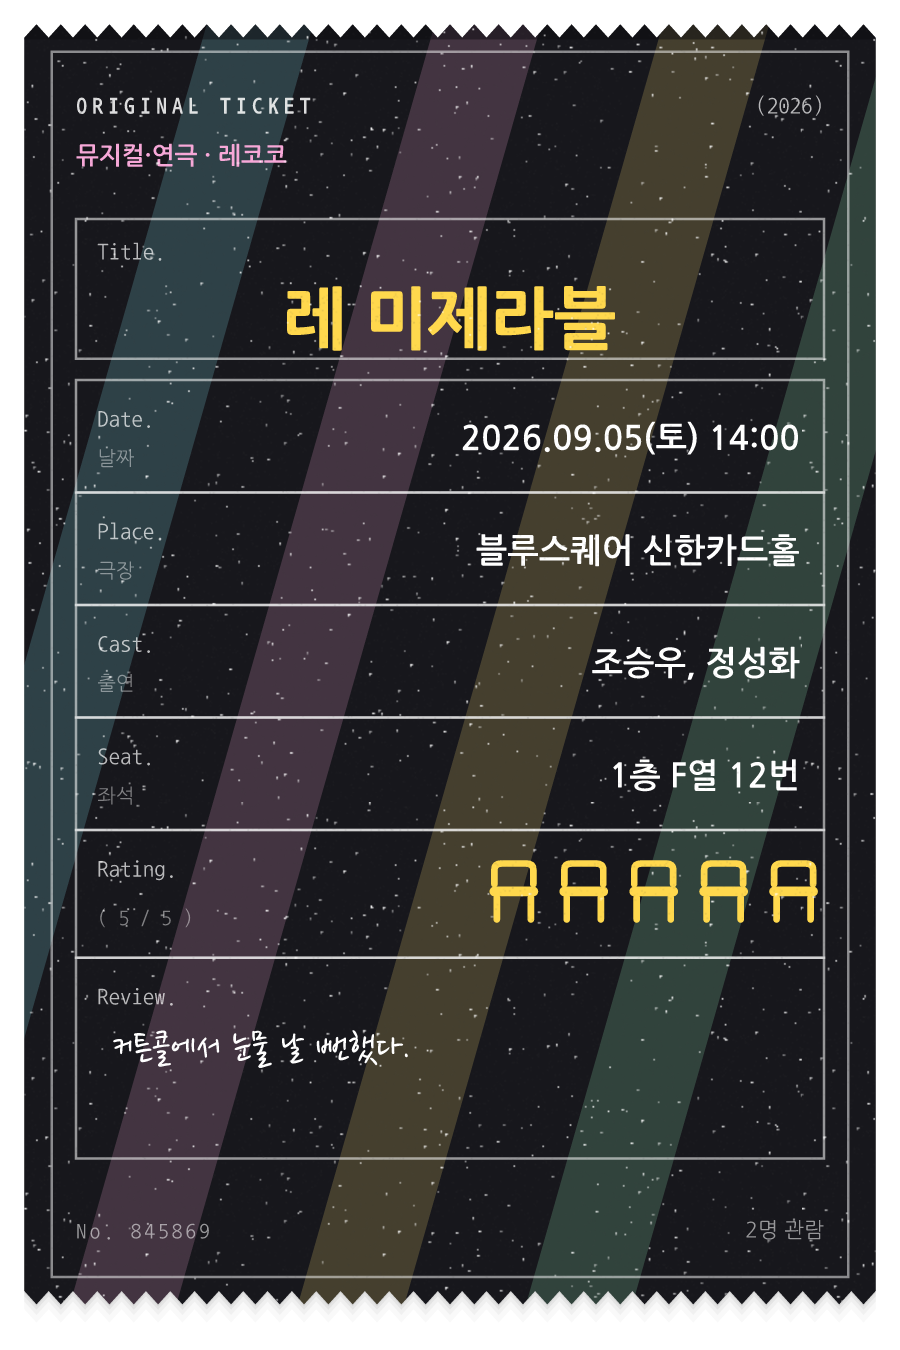
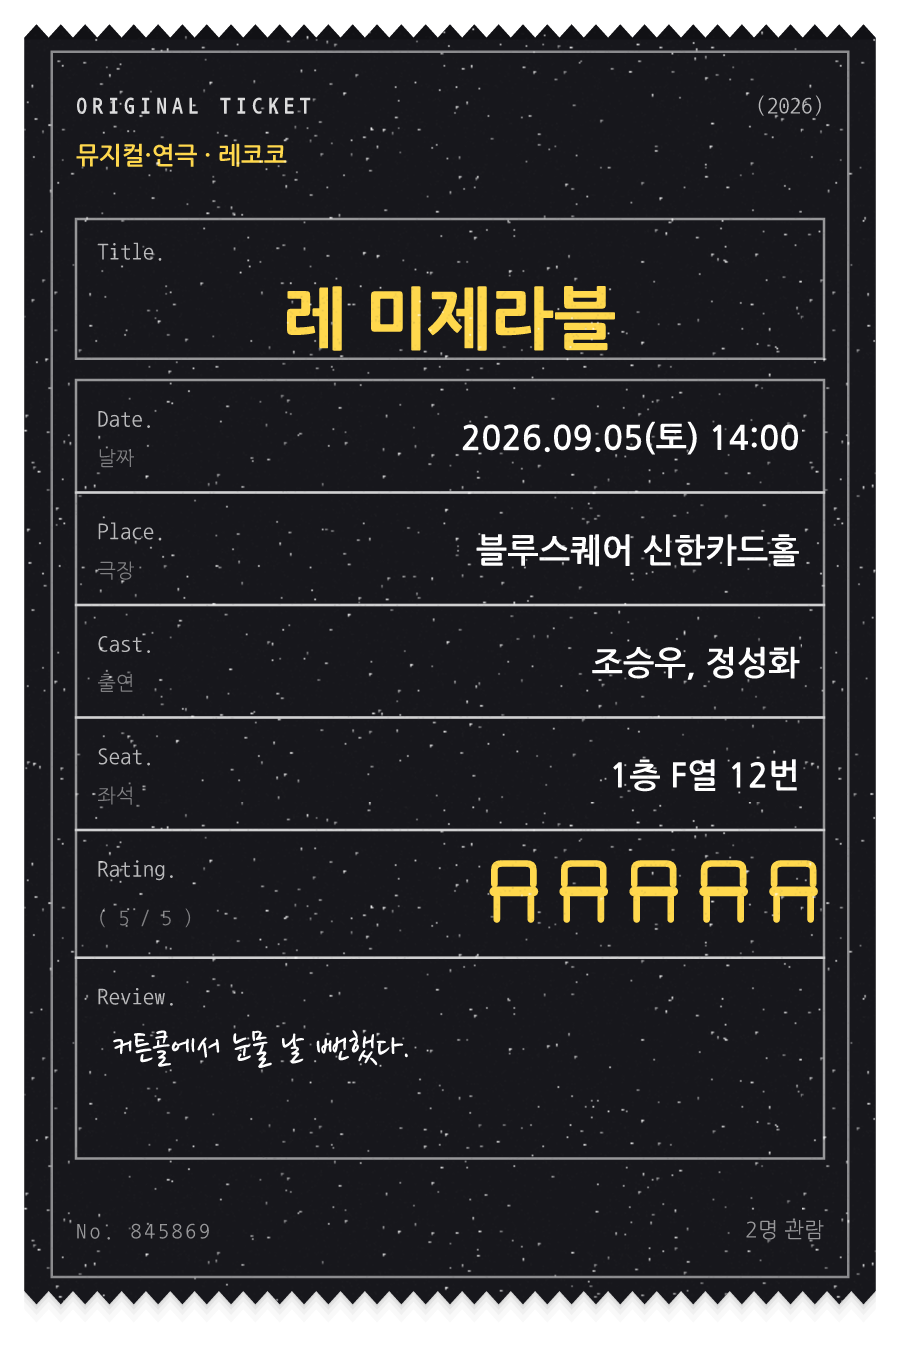
검정 홀로그램은 띠 없이 · 미리보기에서 쌓은 칸 높이를 옆 칸에 맞추기
- 검정 홀로그램의 무지개 띠 제거 (깜깜한 종이 그대로), 머리 글씨는 금색으로
- 미리보기: 칸마다 크기를 먼저 재고, 쌓은 칸은 남는 자리를 장 사이에 나눠 넣어 높이를 맞춘다

diff --git a/app/src/components/ProductPreview.tsx b/app/src/components/ProductPreview.tsx
@@ -41,6 +41,16 @@ export function ProductPreview({ product, onClose, onBought }: { product: Previe
   // 한 장은 크게, 여러 장이면 옆으로 넘겨 보기
   const many = (product?.samples.length ?? 0) > 1;
   const maxH = screenH * 0.5;
+  // 칸마다 종이 폭·높이를 먼저 재서, 가장 높은 칸에 나머지를 맞춘다
+  const cellW = many ? screenW * 0.62 : screenW - 60;
+  const sized = (product?.samples ?? []).map((sample) => {
+    const l = layoutOf(sample.record);
+    const stack = [sample.record, ...(sample.more ?? [])];
+    const room = (maxH - (stack.length - 1) * 10) / stack.length;
+    const w = Math.min(cellW, (room * l.width) / l.height);
+    return { sample, stack, w, h: (w * l.height) / l.width };
+  });
+  const rowH = sized.reduce((m, s) => Math.max(m, s.h * s.stack.length), 0);
 
   return (
     <Modal visible={!!product} animationType="slide" presentationStyle="pageSheet" onRequestClose={onClose}>
@@ -61,17 +71,14 @@ export function ProductPreview({ product, onClose, onBought }: { product: Previe
             <Text style={styles.desc}>{product.desc}</Text>
 
             <ScrollView horizontal showsHorizontalScrollIndicator={false} contentContainerStyle={styles.samples}>
-              {product.samples.map((s, i) => {
-                const l = layoutOf(s.record);
-                const stack = [s.record, ...(s.more ?? [])];
-                // 화면 높이의 절반 안에 들어오게 폭을 정한다 (여러 장을 쌓으면 그만큼 나눠 쓴다)
-                const room = (maxH - (stack.length - 1) * 10) / stack.length;
-                const w = Math.min(many ? screenW * 0.62 : screenW - 60, (room * l.width) / l.height);
+              {sized.map(({ sample: s, stack, w, h }, i) => {
+                // 쌓은 칸은 옆 칸만큼 키운다 (남는 자리를 장 사이에 나눠 넣는다)
+                const gap = stack.length > 1 ? Math.max(10, (rowH - h * stack.length) / (stack.length - 1)) : 0;
                 return (
                   <View key={i} style={styles.sample}>
                     <View style={styles.paper}>
                       {stack.map((record, j) => (
-                        <View key={j} style={j > 0 && { marginTop: 10 }}>
+                        <View key={j} style={j > 0 && { marginTop: gap }}>
                           {s.side === 'back' && record.kind === 'fourcut' ? <FourcutBack record={record} width={w} /> : <RecordPaper record={record} width={w} />}
                         </View>
                       ))}

diff --git a/app/src/templates/ShowHolo.tsx b/app/src/templates/ShowHolo.tsx
@@ -18,7 +18,8 @@ export const HOLO_COLORS: Record<HoloColor, { name: string; base: string; deep: 
   violet: { name: '보라', base: '#4b2a9b', deep: '#331a70', gold: '#ffd84d', holo: ['#c9a8f7', '#ffe27a', '#f7a8d8', '#a8f0f7'], shine: 0.09 },
   teal: { name: '청록', base: '#0e6b6b', deep: '#074f4f', gold: '#ffe08a', holo: ['#8be9f7', '#ffe27a', '#9bf5c0', '#a8d8f7'], shine: 0.09 },
   wine: { name: '와인', base: '#7a1f45', deep: '#571030', gold: '#ffd07a', holo: ['#f7a8d8', '#ffe27a', '#f7c8a8', '#e9a8f7'], shine: 0.09 },
-  black: { name: '검정', base: '#17171c', deep: '#0b0b0e', gold: '#ffd84d', holo: ['#8be9f7', '#f7a8d8', '#ffe27a', '#9bf5c0'], shine: 0.2 },
+  // 검정은 띠 없이 깜깜한 종이 그대로 (shine 0)
+  black: { name: '검정', base: '#17171c', deep: '#0b0b0e', gold: '#ffd84d', holo: [], shine: 0 },
 };
 
 export const HOLO_COLOR_IDS = Object.keys(HOLO_COLORS) as HoloColor[];
@@ -126,7 +127,7 @@ export function ShowHolo({ record: r, width, connected = false }: { record: Show
         {/* 머리 */}
         <T f="monoBold" x={M} y={58} fontSize={15} letterSpacing={3} fill="#fff" opacity={0.85} children="ORIGINAL TICKET" />
         <T f="mono" x={PW - M} y={58} fontSize={15} textAnchor="end" fill="#fff" opacity={0.7} children={`(${year})`} />
-        <T f="sansBold" x={M} y={92} fontSize={16} fill={HOLO[1]} children={`${t.label} · ${BRAND.ko}`} />
+        <T f="sansBold" x={M} y={92} fontSize={16} fill={HOLO[1] ?? GOLD} children={`${t.label} · ${BRAND.ko}`} />
 
         {/* 제목 칸 */}
         {box(M, titleTop, PW - M * 2, titleBoxH, 'title')}

diff --git a/docs/유료화_아이디어.md b/docs/유료화_아이디어.md
@@ -41,11 +41,11 @@
 | 모눈종이 | 연두 · 하늘 · 분홍 · 회색 |
 | 스탠딩 팔찌 | 라임 · 핫핑크 · 하늘 · 주황 |
 | 포토 티켓 | 분홍 · 하늘 · 버터 · 민트 |
-| 홀로그램 | 파랑 · 보라 · 청록 · 와인 · 검정 (검정은 무지개 띠를 더 진하게) |
+| 홀로그램 | 파랑 · 보라 · 청록 · 와인 · 검정 (검정만 무지개 띠 없이 깜깜한 종이) |
 | 레트로 티켓 | 남색 · 숲 초록 · 버건디 · 세피아 · 먹색 (크림 종이는 그대로, 조각·포인트만 바뀜) |
 
 - 상점 미리보기에 색마다 한 장씩 보여준다 (두 카테고리가 같이 쓰는 모양은 콘서트·공연을 번갈아)
-- 콘서트 레트로처럼 **가로로 납작한 모양**은 한 칸에 여러 색을 세로로 쌓아 보여준다 (`PreviewSample.more`)
+- 콘서트 레트로처럼 **가로로 납작한 모양**은 한 칸에 여러 색을 세로로 쌓아 보여준다 (`PreviewSample.more`). 쌓은 칸은 옆 칸과 높이가 같아지도록 남는 자리를 장 사이에 나눠 넣는다
 - 집 모양의 창문 그림(☕🍚🍰🍺)만 가게 종류를 따른다. 나머지는 색과 무관
 - **흰 무지**는 팔지 않고 기본으로 준다 (2026-09-19 변경). 예전 '단색 주문서'는 주문서 먹색으로 합쳤다
 
